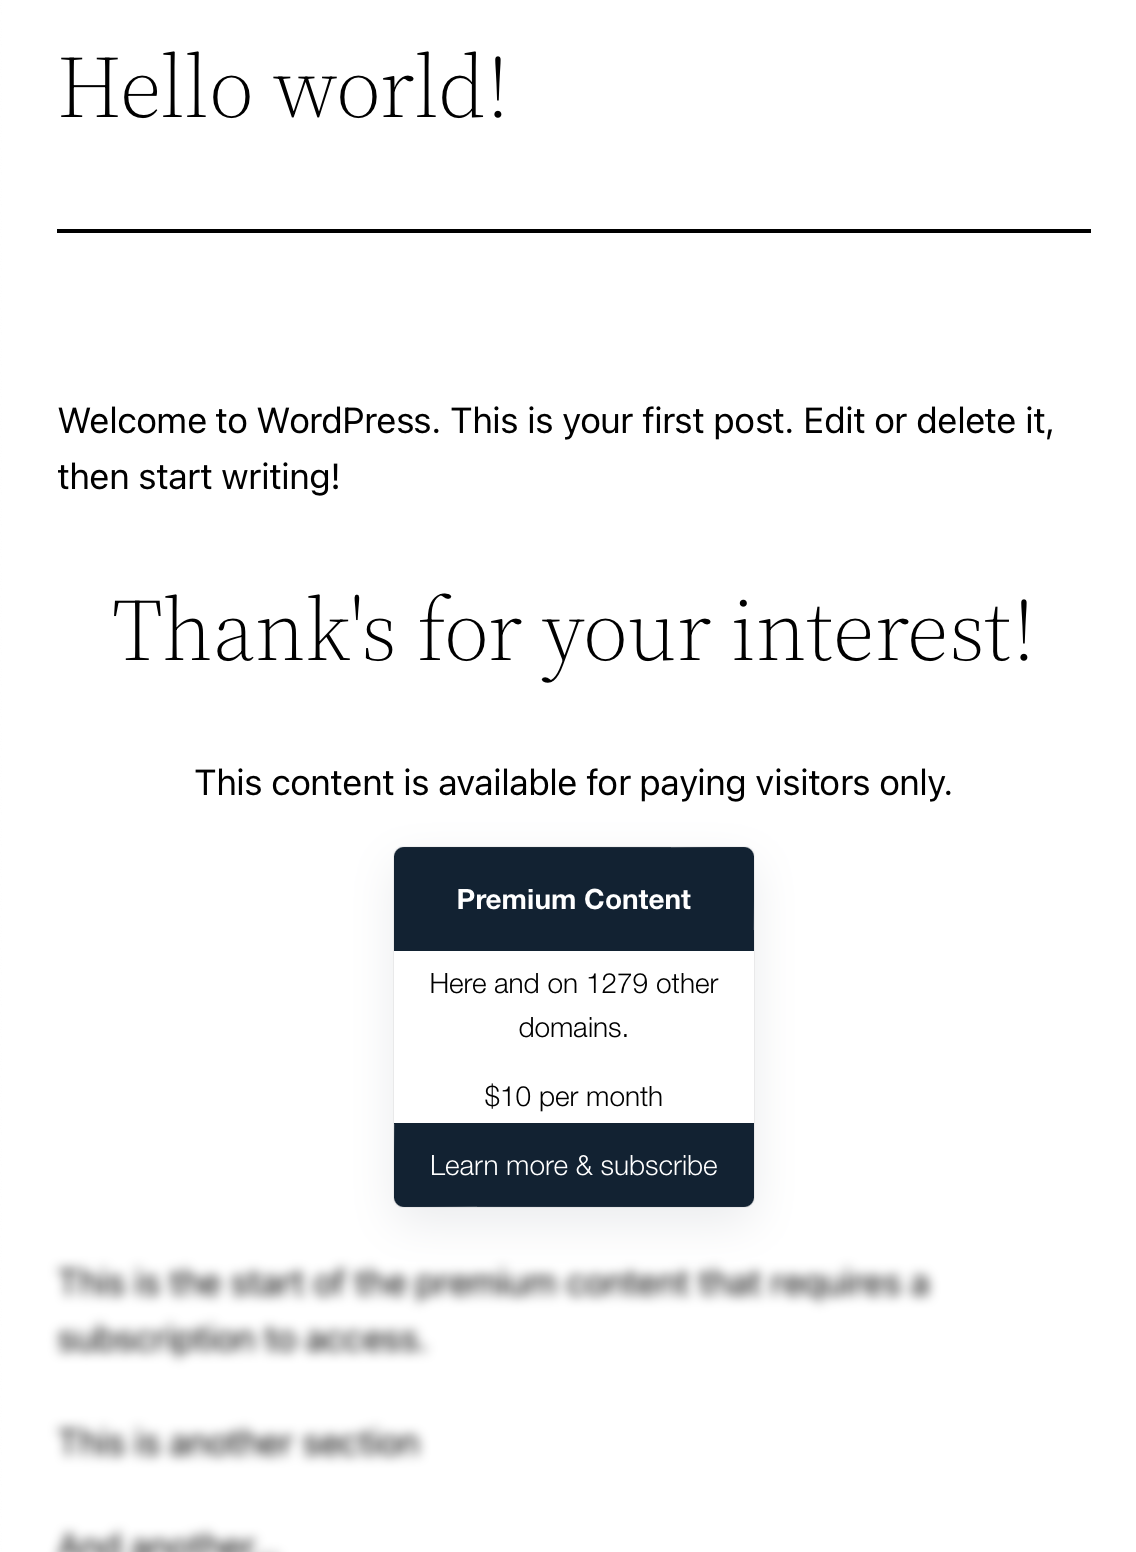
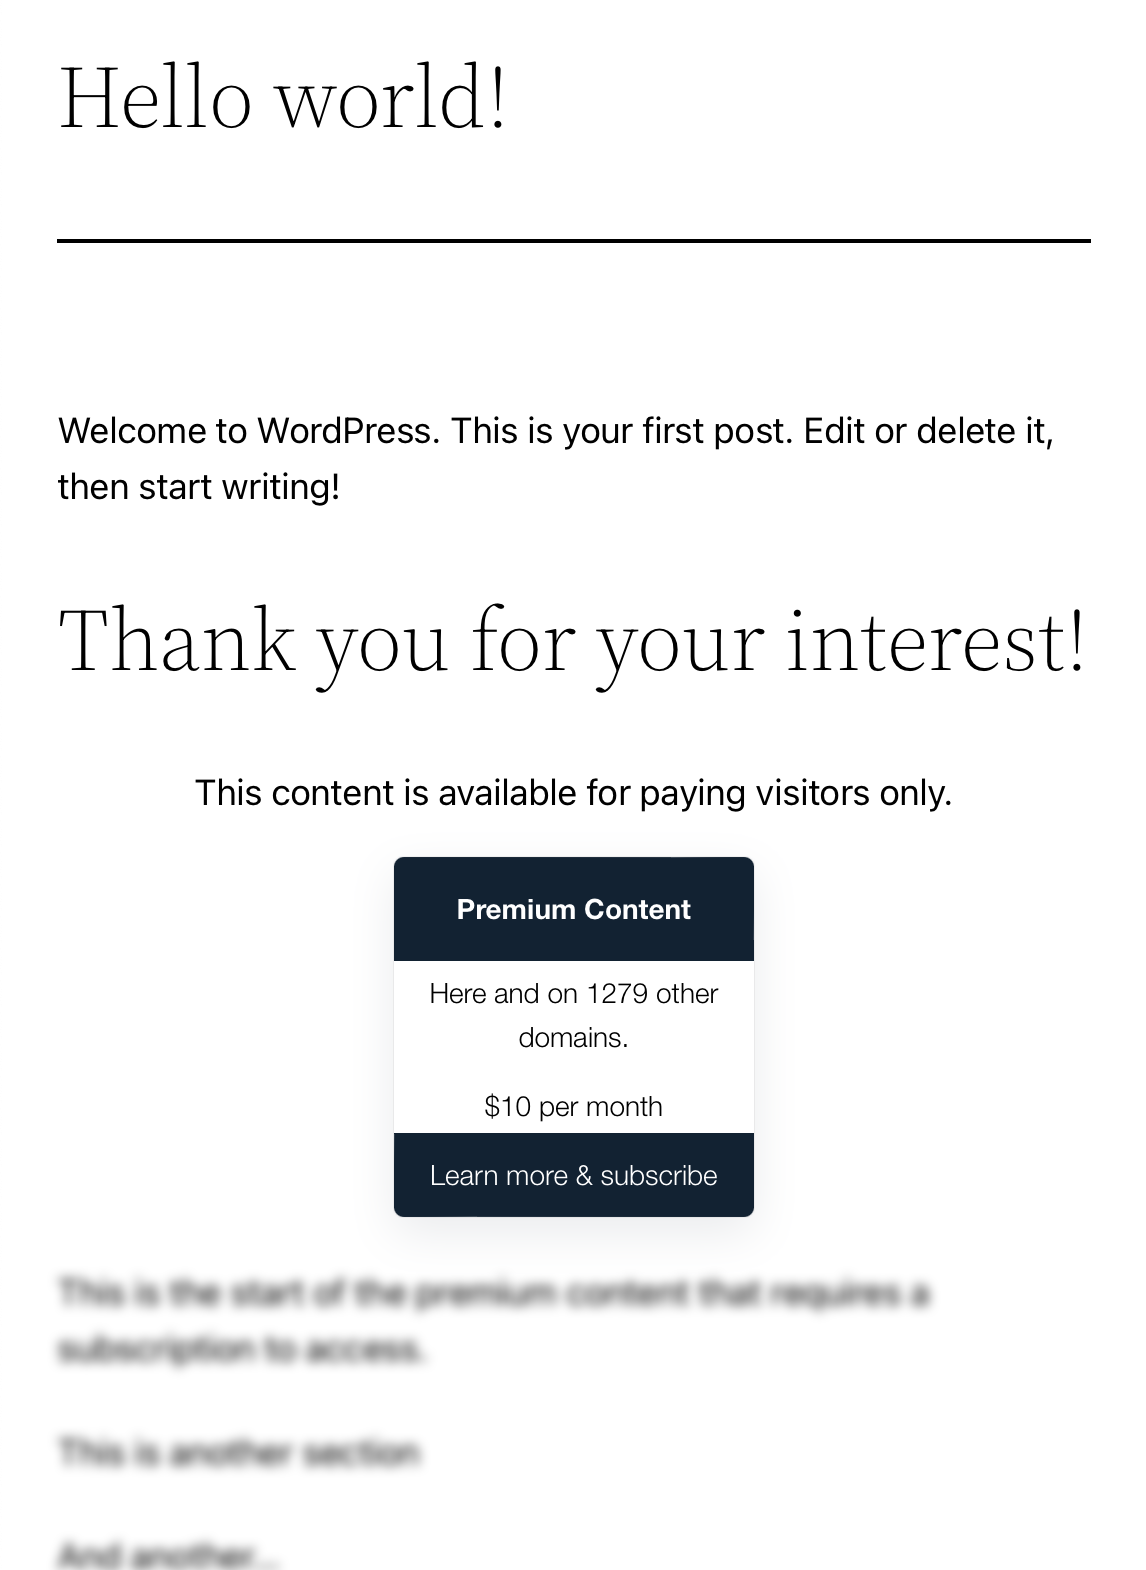
Correct phrasing for default paywall message

diff --git a/adless/admin/settings.php b/adless/admin/settings.php
@@ -204,8 +204,8 @@ class AdlessSettingsPage
     {
         printf(
             wp_editor(
-                !empty($this->options['paywallMessage']) ? base64_decode($this->options['paywallMessage']) : '<h2>Thank\'s for your interest!</h2>               
-<p>This content is available for paying visitors only.</p>',
+                !empty($this->options['paywallMessage']) ? base64_decode($this->options['paywallMessage']) : '<h2>Thank you for your interest!</h2>
+                <p>This content is available for paying visitors only.</p>',
                 "adless_paywallMessage",
                 array(
                     'wpautop' => true,
